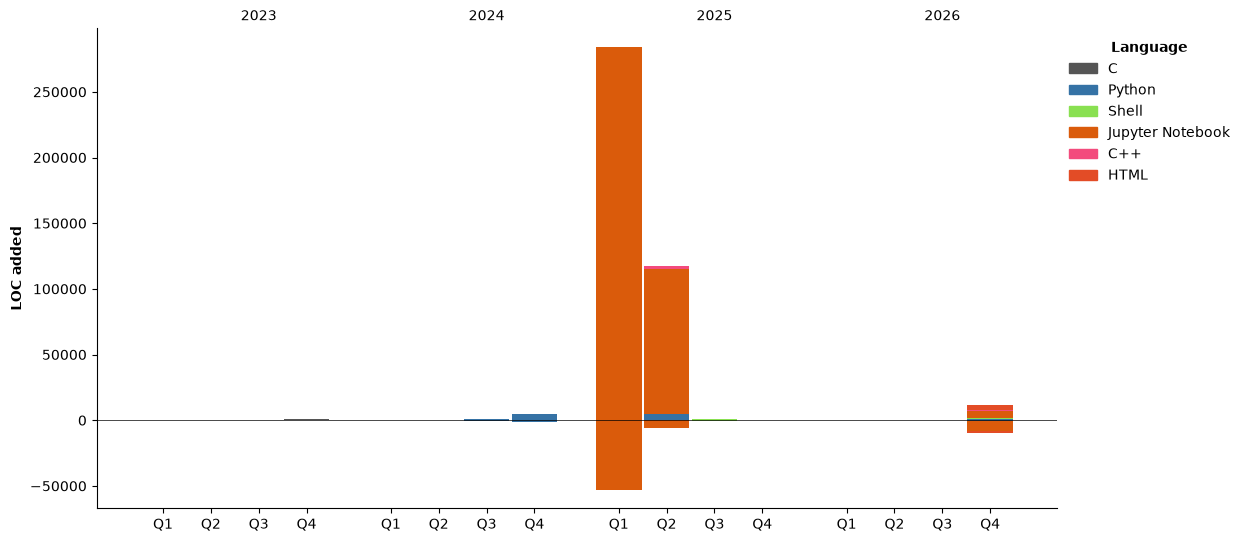
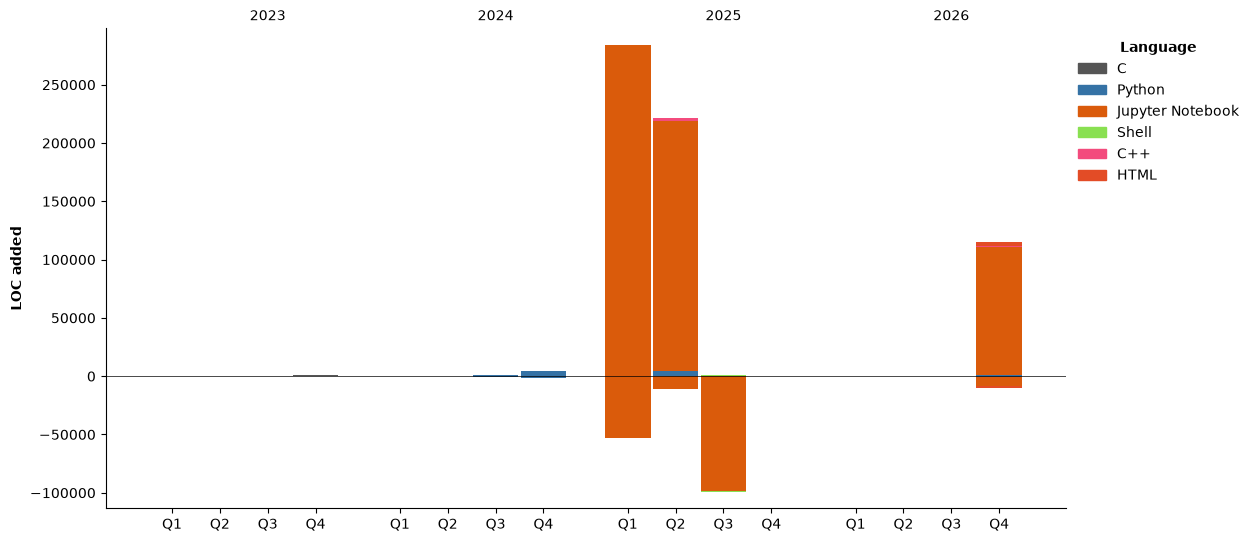
Updated with Dev Metrics

diff --git a/README.md b/README.md
@@ -46,6 +46,33 @@
 </p>
 
 <!--START_SECTION:waka-->
+![Code Time](http://img.shields.io/badge/Code%20Time-372%20hrs%2024%20mins-blue?style=flat)
+
+📊 **This Week I Spent My Time On** 
+
+```text
+💬 Programming Languages: 
+SQL                      1 hr 17 mins        █████████████████████████   100.00 % 
+
+🔥 Editors: 
+DataGrip                 1 hr 17 mins        █████████████████████████   100.00 % 
+
+🐱💻 Projects: 
+default                  1 hr 17 mins        █████████████████████████   100.00 % 
+```
+
+🤖 **AI Coding This Week** 
+
+```text
+No AI Coding Activity Tracked This Week
+```
+
+**Timeline**
+
+![Lines of Code chart](https://raw.githubusercontent.com/Gooddru/Gooddru/main/assets/bar_graph.png)
+
+
+ Last Updated on 09/11/2026 00:25:21 UTC
 <!--END_SECTION:waka-->
 
 <p align="center">
